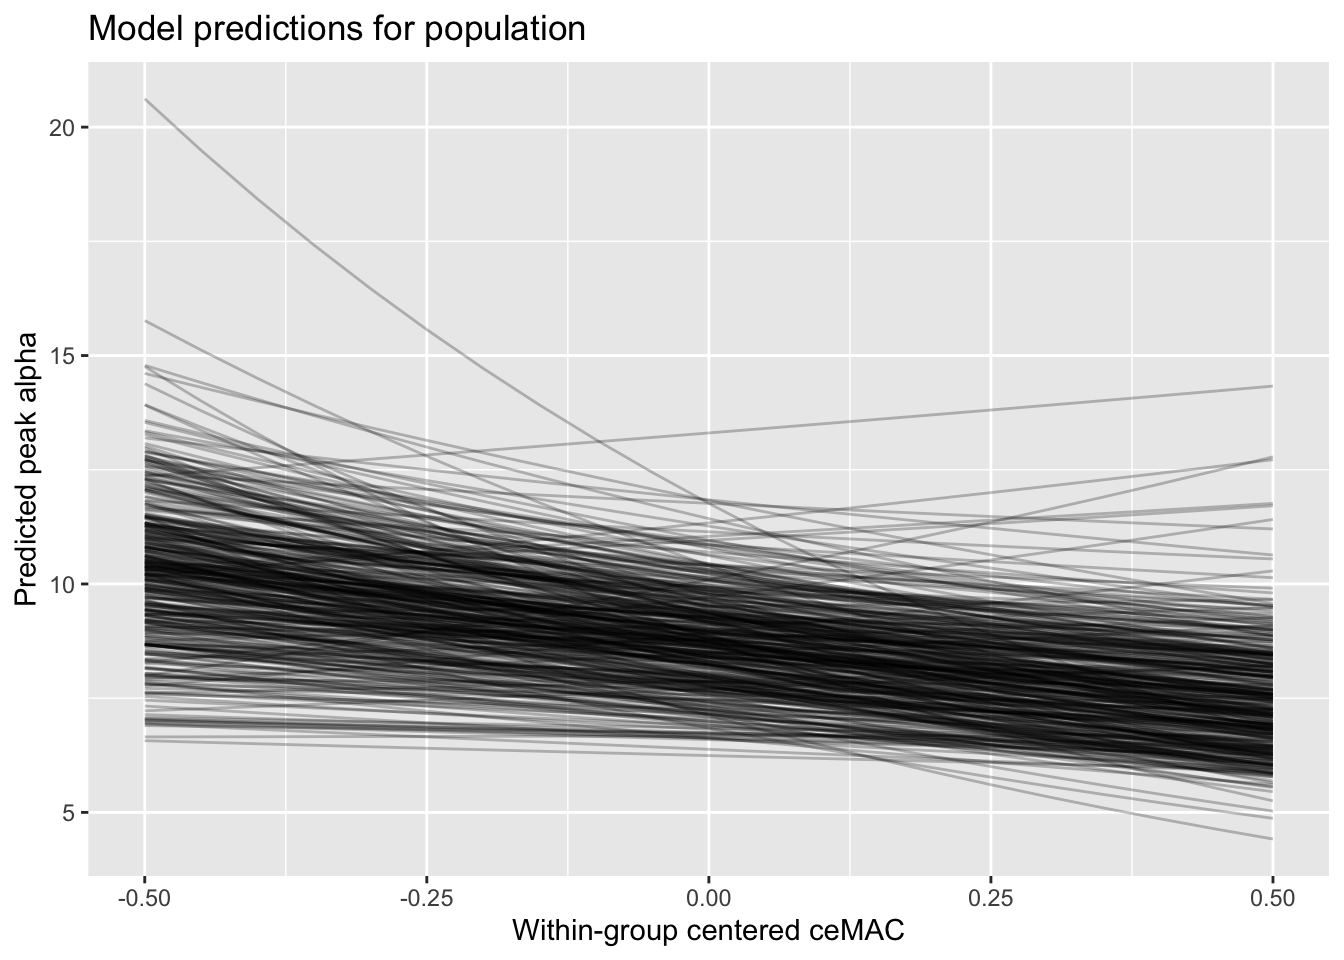
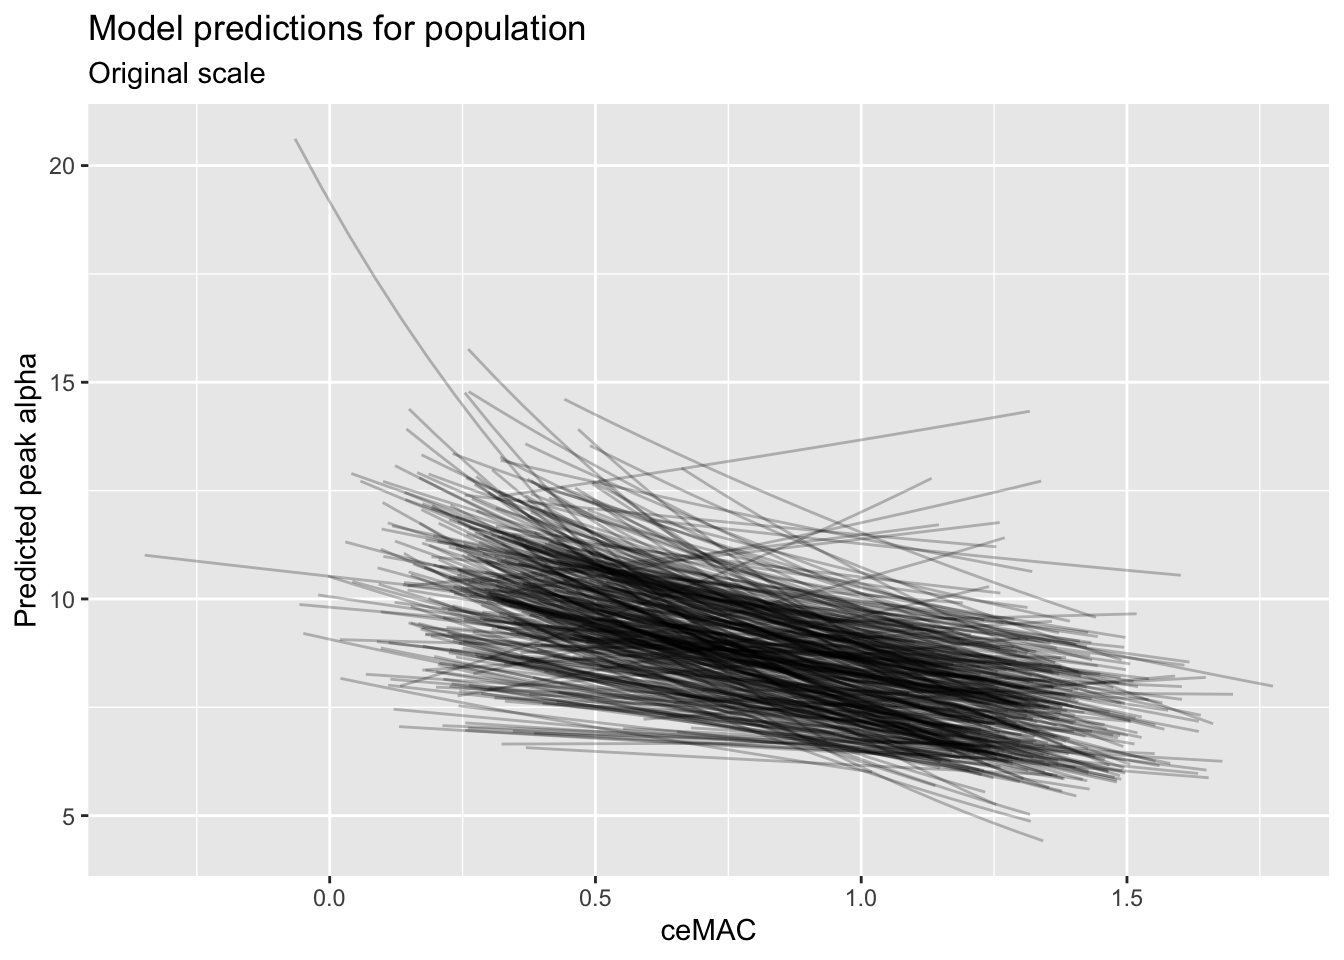
Build site.

diff --git a/docs/final-model.html b/docs/final-model.html
@@ -438,7 +438,7 @@ div.tocify {
 <div class="tab-content">
 <div id="summary" class="tab-pane fade in active">
 <p>
-<strong>Last updated:</strong> 2021-05-26
+<strong>Last updated:</strong> 2021-06-15
 </p>
 <p>
 <strong>Checks:</strong> <span class="glyphicon glyphicon-ok text-success" aria-hidden="true"></span> 7 <span class="glyphicon glyphicon-exclamation-sign text-danger" aria-hidden="true"></span> 0
@@ -529,16 +529,16 @@ This reproducible <a href="http://rmarkdown.rstudio.com">R Markdown</a> analysis
 <div class="panel panel-default">
 <div class="panel-heading">
 <p class="panel-title">
-<a data-toggle="collapse" data-parent="#workflowr-checks" href="#strongRepositoryversionstrongahrefhttpsgithubcomPhoenixB1overMACworkflowrtree62e589f60090be9f94551fc36e351c913c83fafbtargetblank62e589fa"> <span class="glyphicon glyphicon-ok text-success" aria-hidden="true"></span> <strong>Repository version:</strong> <a href="https://github.com/PhoenixB/1_over_MAC.workflowr/tree/62e589f60090be9f94551fc36e351c913c83fafb" target="_blank">62e589f</a> </a>
+<a data-toggle="collapse" data-parent="#workflowr-checks" href="#strongRepositoryversionstrongahrefhttpsgithubcomPhoenixB1overMACworkflowrtreeb2336034d259f0788fec6fd3400e5a41f368b466targetblankb233603a"> <span class="glyphicon glyphicon-ok text-success" aria-hidden="true"></span> <strong>Repository version:</strong> <a href="https://github.com/PhoenixB/1_over_MAC.workflowr/tree/b2336034d259f0788fec6fd3400e5a41f368b466" target="_blank">b233603</a> </a>
 </p>
 </div>
[2 lines of base64/hex data omitted]
 <div class="panel-body">
 <p>
 Great! You are using Git for version control. Tracking code development and connecting the code version to the results is critical for reproducibility.
 </p>
 <p>
-The results in this page were generated with repository version <a href="https://github.com/PhoenixB/1_over_MAC.workflowr/tree/62e589f60090be9f94551fc36e351c913c83fafb" target="_blank">62e589f</a>. See the <em>Past versions</em> tab to see a history of the changes made to the R Markdown and HTML files.
+The results in this page were generated with repository version <a href="https://github.com/PhoenixB/1_over_MAC.workflowr/tree/b2336034d259f0788fec6fd3400e5a41f368b466" target="_blank">b233603</a>. See the <em>Past versions</em> tab to see a history of the changes made to the R Markdown and HTML files.
 </p>
 <p>
 Note that you need to be careful to ensure that all relevant files for the analysis have been committed to Git prior to generating the results (you can use <code>wflow_publish</code> or <code>wflow_git_commit</code>). workflowr only checks the R Markdown file, but you know if there are other scripts or data files that it depends on. Below is the status of the Git repository when the results were generated:
@@ -1638,6 +1638,7 @@ Ignored files:
     Ignored:    output/preprocess_profile.html
     Ignored:    output/preprocess_profile_files/
     Ignored:    output/resamples.rds
+    Ignored:    output/slopes.csv
 
 </code></pre>
 <p>
@@ -1676,6 +1677,40 @@ Message
 </tr>
 </thead>
 <tbody>
+<tr>
+<td>
+Rmd
+</td>
+<td>
+<a href="https://github.com/PhoenixB/1_over_MAC.workflowr/blob/b2336034d259f0788fec6fd3400e5a41f368b466/analysis/final-model.Rmd" target="_blank">b233603</a>
+</td>
+<td>
+PhoenixB
+</td>
+<td>
+2021-06-15
+</td>
+<td>
+Add population plot with original ceMAC scale, keep rownames within ranef as pid
+</td>
+</tr>
+<tr>
+<td>
+html
+</td>
+<td>
+<a href="https://rawcdn.githack.com/PhoenixB/1_over_MAC.workflowr/c392196a3b23516eeb2e2d3d95d812acc29c546a/docs/final-model.html" target="_blank">c392196</a>
+</td>
+<td>
+PhoenixB
+</td>
+<td>
+2021-05-26
+</td>
+<td>
+Build site.
+</td>
+</tr>
 <tr>
 <td>
 Rmd
@@ -1776,17 +1811,19 @@ Add page and navigation item for final model
 <h2>Model predictions</h2>
 <div id="population" class="section level3">
 <h3>Population</h3>
-<pre class="r"><code>setDF(model5_specs[, rbindlist(predict, idcol = &quot;seed&quot;)
-][, .(seed, pid, ce_mac_pid_centered,
-      predict = exp(predict))]) %&gt;%
+<pre class="r"><code># unique(resamples[, rbindlist(resample, idcol = &quot;seed&quot;)][, .(pid, ce_mac_pid_mean)], by = c(&quot;pid&quot;))
+
+setDF(model5_specs[, rbindlist(predict, idcol = &quot;seed&quot;)
+][unique(resamples[, rbindlist(resample, idcol = &quot;seed&quot;)][, .(pid, ce_mac_pid_mean)], by = c(&quot;pid&quot;)), on = &quot;pid&quot;][, .(seed, pid, ce_mac = ce_mac_pid_centered + ce_mac_pid_mean, predict = exp(predict))]) %&gt;%
     as_tibble() %&gt;%
-    group_by(pid, ce_mac_pid_centered) %&gt;%
+    group_by(pid, ce_mac) %&gt;%
     mean_qi(predict, .width = c(0.95)) %&gt;%
-  ggplot(aes(x = ce_mac_pid_centered, y = predict, group = pid)) +
-  geom_path(alpha = 0.25) +
-  labs(title = &quot;Model predictions for population&quot;,
-       x = &quot;Within-group centered ceMAC&quot;,
-       y = &quot;Predicted peak alpha&quot;)</code></pre>
+    ggplot(aes(x = ce_mac, y = predict, group = pid)) +
+    geom_path(alpha = 0.25) +
+    labs(title = &quot;Model predictions for population&quot;,
+         subtitle = &quot;Original scale&quot;,
+         x = &quot;ceMAC&quot;,
+         y = &quot;Predicted peak alpha&quot;)</code></pre>
 <p><img src="figure/final-model.Rmd/predictions_population-1.png" width="672" style="display: block; margin: auto;" /></p>
 <p>
 <button type="button" class="btn btn-default btn-xs btn-workflowr btn-workflowr-fig" data-toggle="collapse" data-target="#fig-predictions_population-1">
@@ -1825,6 +1862,19 @@ PhoenixB
 </table>
 </div>
 </div>
+<pre class="r"><code>setDF(model5_specs[, rbindlist(predict, idcol = &quot;seed&quot;)
+][, .(seed, pid, ce_mac_pid_centered,
+      predict = exp(predict))]) %&gt;%
+    as_tibble() %&gt;%
+    group_by(pid, ce_mac_pid_centered) %&gt;%
+    mean_qi(predict, .width = c(0.95)) %&gt;%
+  ggplot(aes(x = ce_mac_pid_centered, y = predict, group = pid)) +
+  geom_path(alpha = 0.25) +
+  labs(title = &quot;Model predictions for population&quot;,
+       subtitle = &quot;Centered scale&quot;,
+       x = &quot;Within-group centered ceMAC&quot;,
+       y = &quot;Predicted peak alpha&quot;)</code></pre>
+<p><img src="figure/final-model.Rmd/predictions_population-2.png" width="672" style="display: block; margin: auto;" /></p>
 </div>
 <div id="patient-wise" class="section level3">
 <h3>Patient-wise</h3>
@@ -1871,6 +1921,17 @@ Date
 </tr>
 </thead>
 <tbody>
+<tr>
+<td>
+<a href="https://github.com/PhoenixB/1_over_MAC.workflowr/blob/c392196a3b23516eeb2e2d3d95d812acc29c546a/docs/figure/final-model.Rmd/predictions_pid-1.png" target="_blank">c392196</a>
+</td>
+<td>
+PhoenixB
+</td>
+<td>
+2021-05-26
+</td>
+</tr>
 <tr>
 <td>
 <a href="https://github.com/PhoenixB/1_over_MAC.workflowr/blob/ecbeeaa0f42d43bf32b22c53ce5ba549486ae89b/docs/figure/final-model.Rmd/predictions_pid-1.png" target="_blank">ecbeeaa</a>
